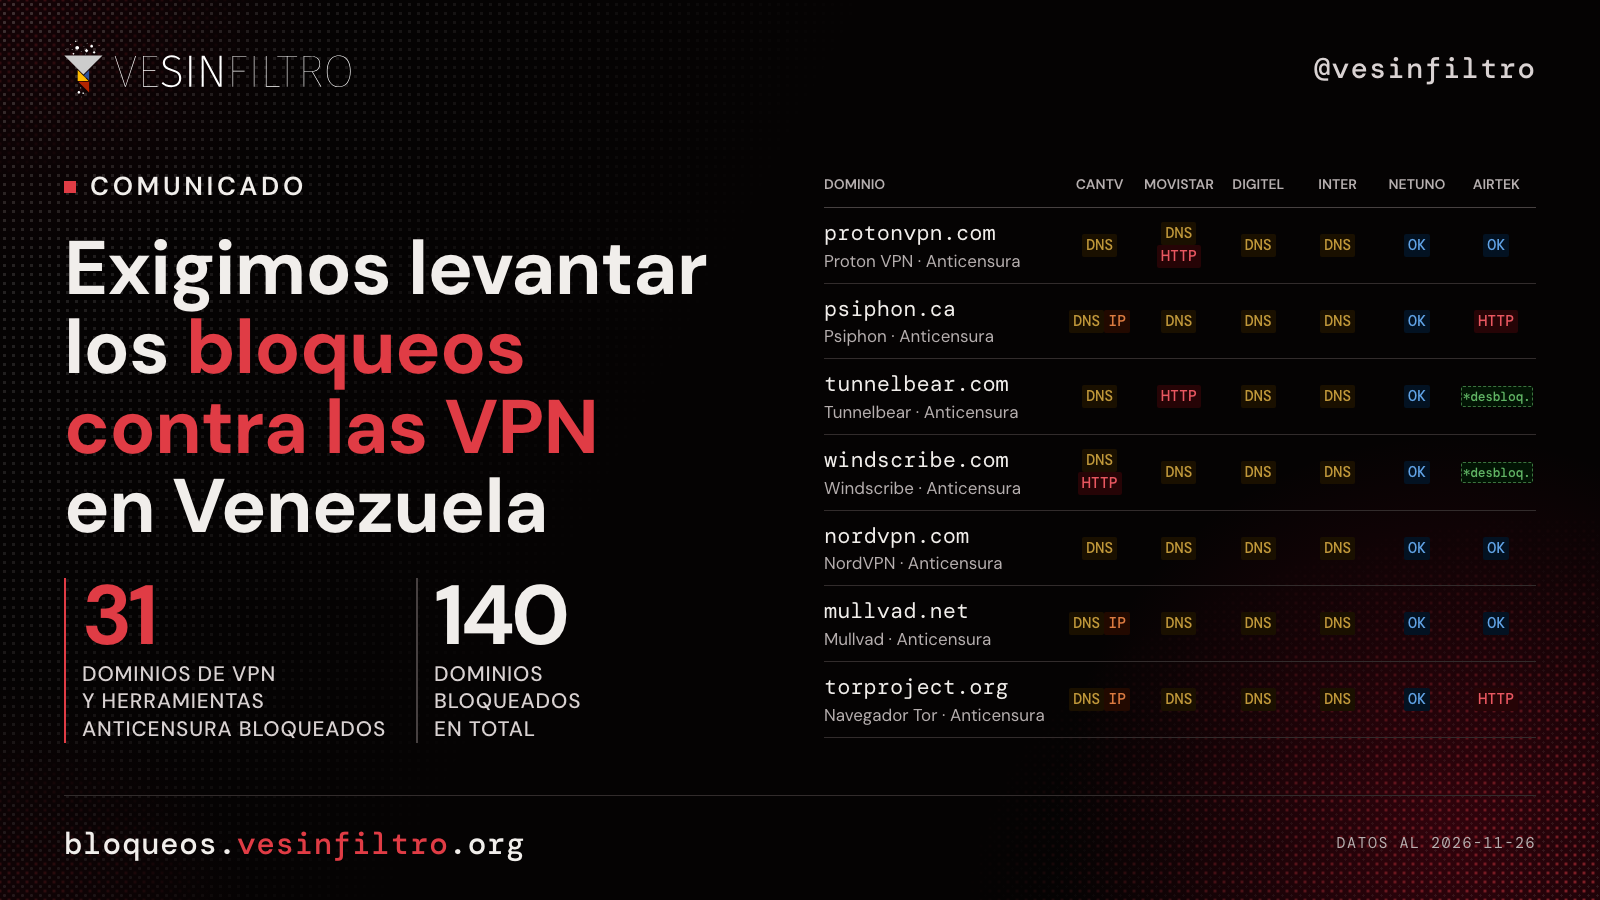
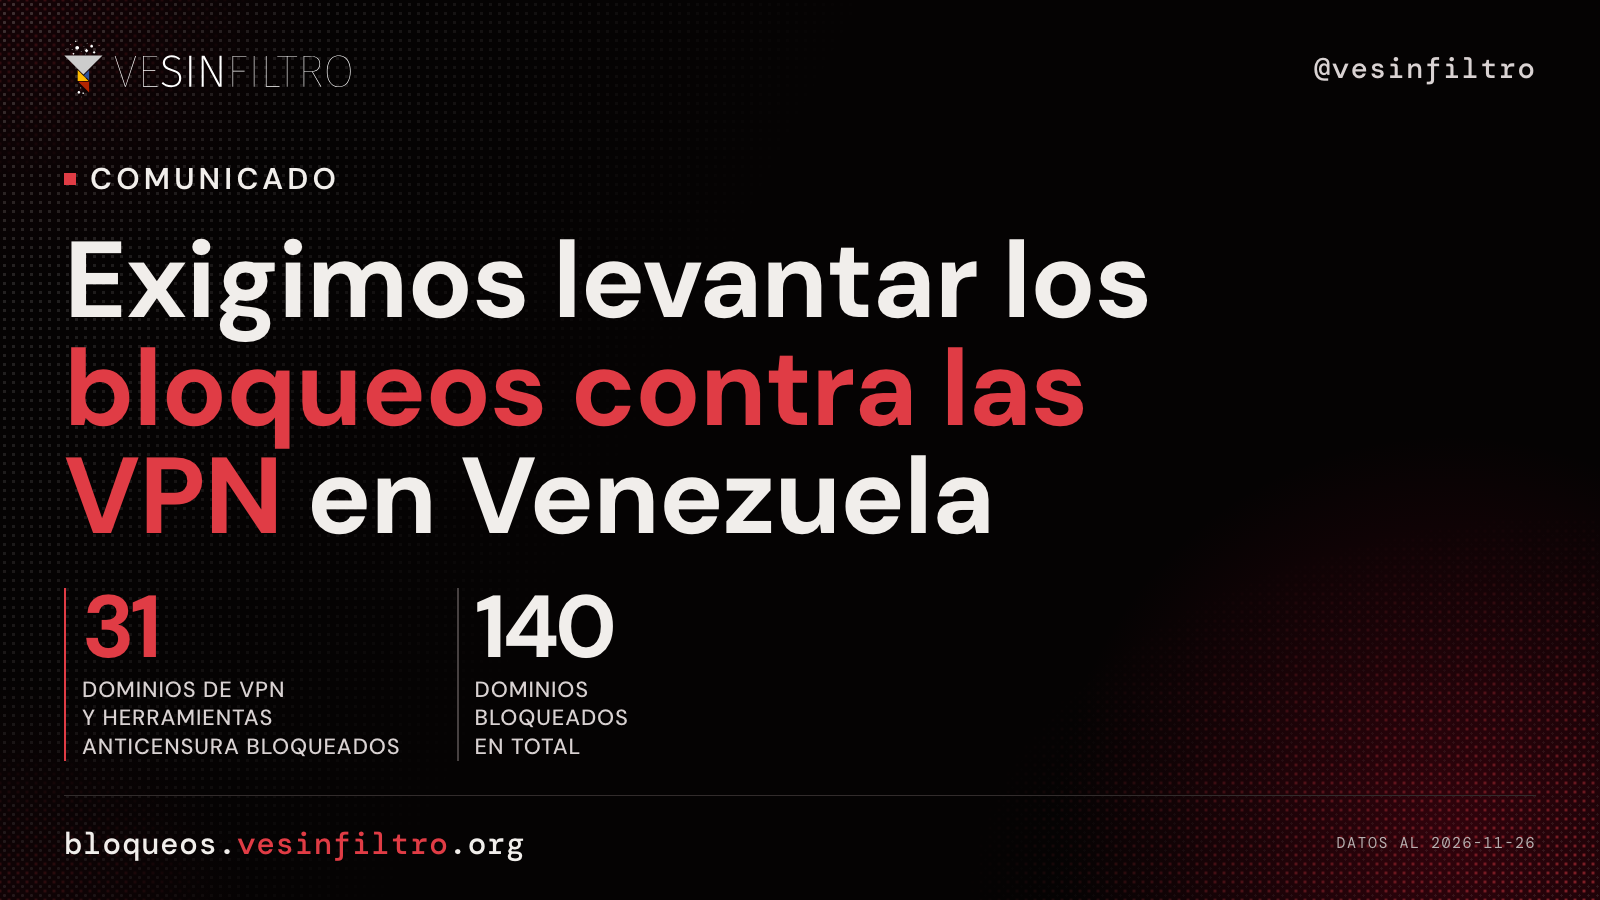
Use a simpler cover without the table on the 2026-11-26 VPN statement

diff --git a/_noticias/2026-11-26-desbloqueo-vpn.md b/_noticias/2026-11-26-desbloqueo-vpn.md
@@ -8,7 +8,7 @@ type: Comunicado
 topics: ["Censura y bloqueos"]
 lang: es
 image: /res/post_img/2026-11-26/desbloqueo-vpn.png
-image_alt: "Comunicado de VE sin Filtro: Exigimos levantar los bloqueos contra las VPN en Venezuela. 31 dominios de VPN y herramientas anticensura bloqueados, 140 dominios bloqueados en total. Tabla con el estado de protonvpn.com, psiphon.ca, tunnelbear.com, windscribe.com, nordvpn.com, mullvad.net y torproject.org en CANTV, Movistar, Digitel, Inter, NetUno y Airtek. Datos al 26 de noviembre de 2026"
+image_alt: "Comunicado de VE sin Filtro: Exigimos levantar los bloqueos contra las VPN en Venezuela. 31 dominios de VPN y herramientas anticensura bloqueados, 140 dominios bloqueados en total. Datos al 26 de noviembre de 2026"
 image_width: 1600
 image_height: 900
 ---
